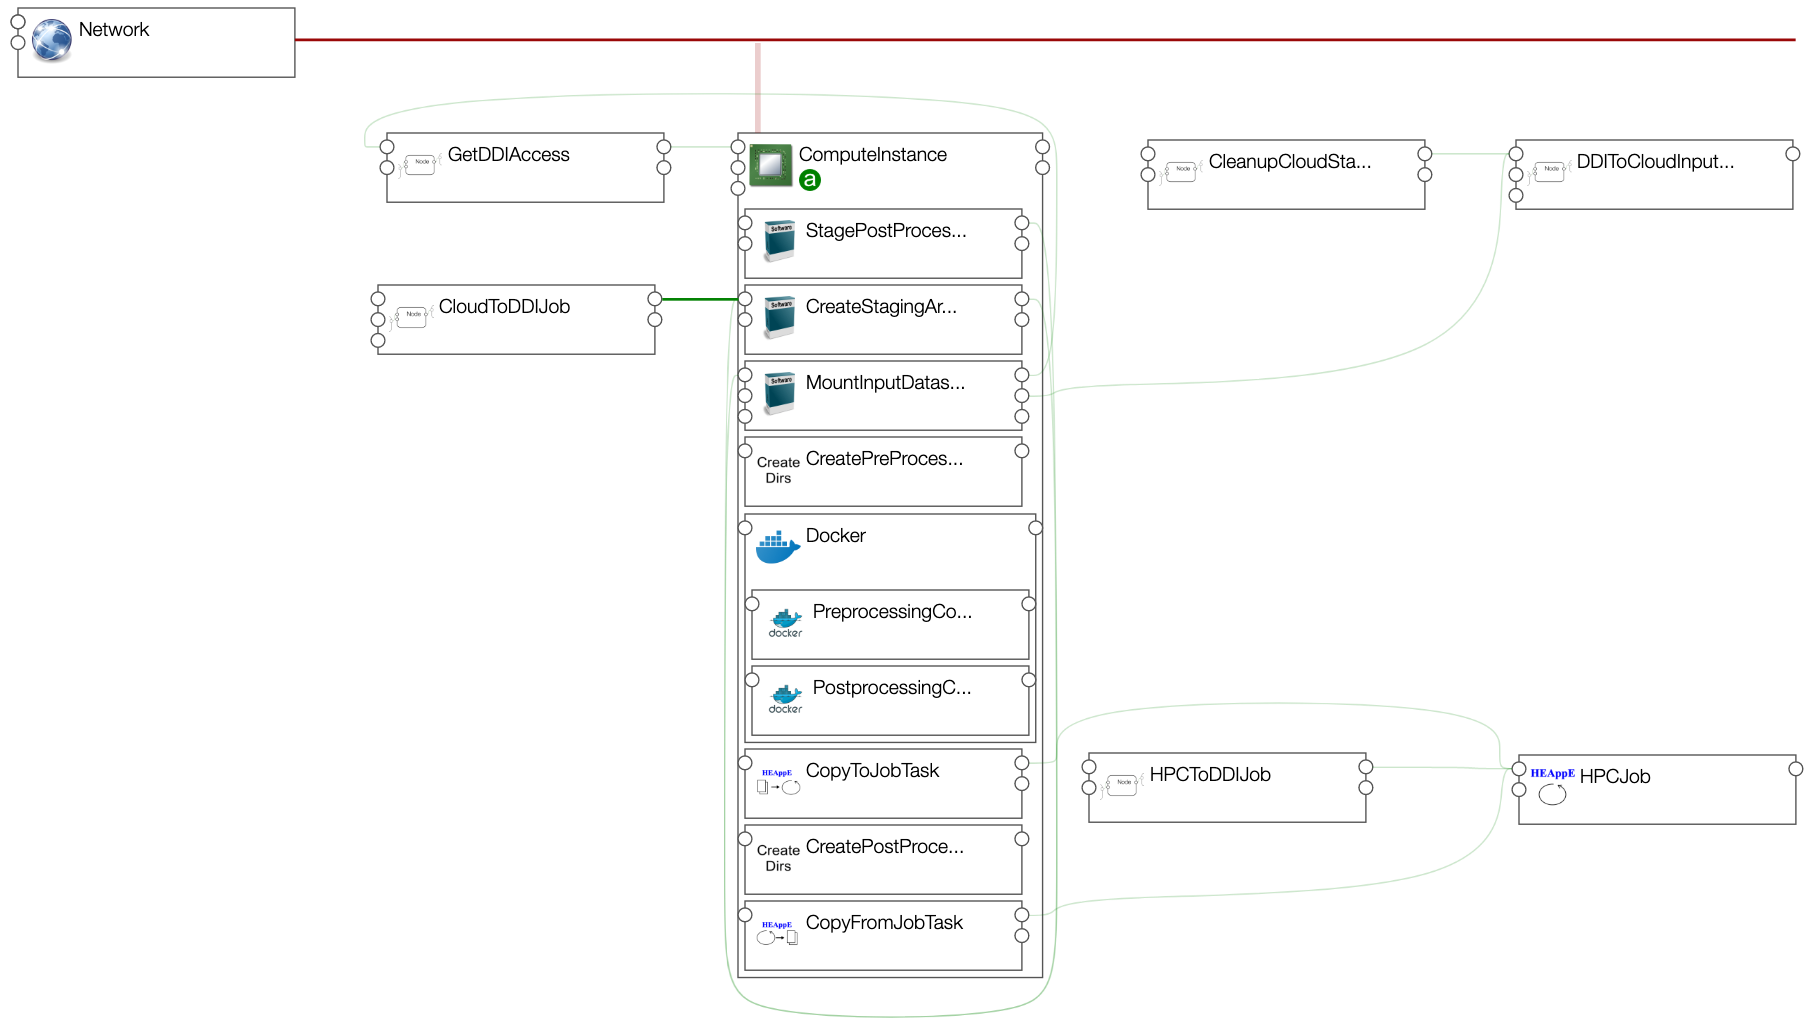
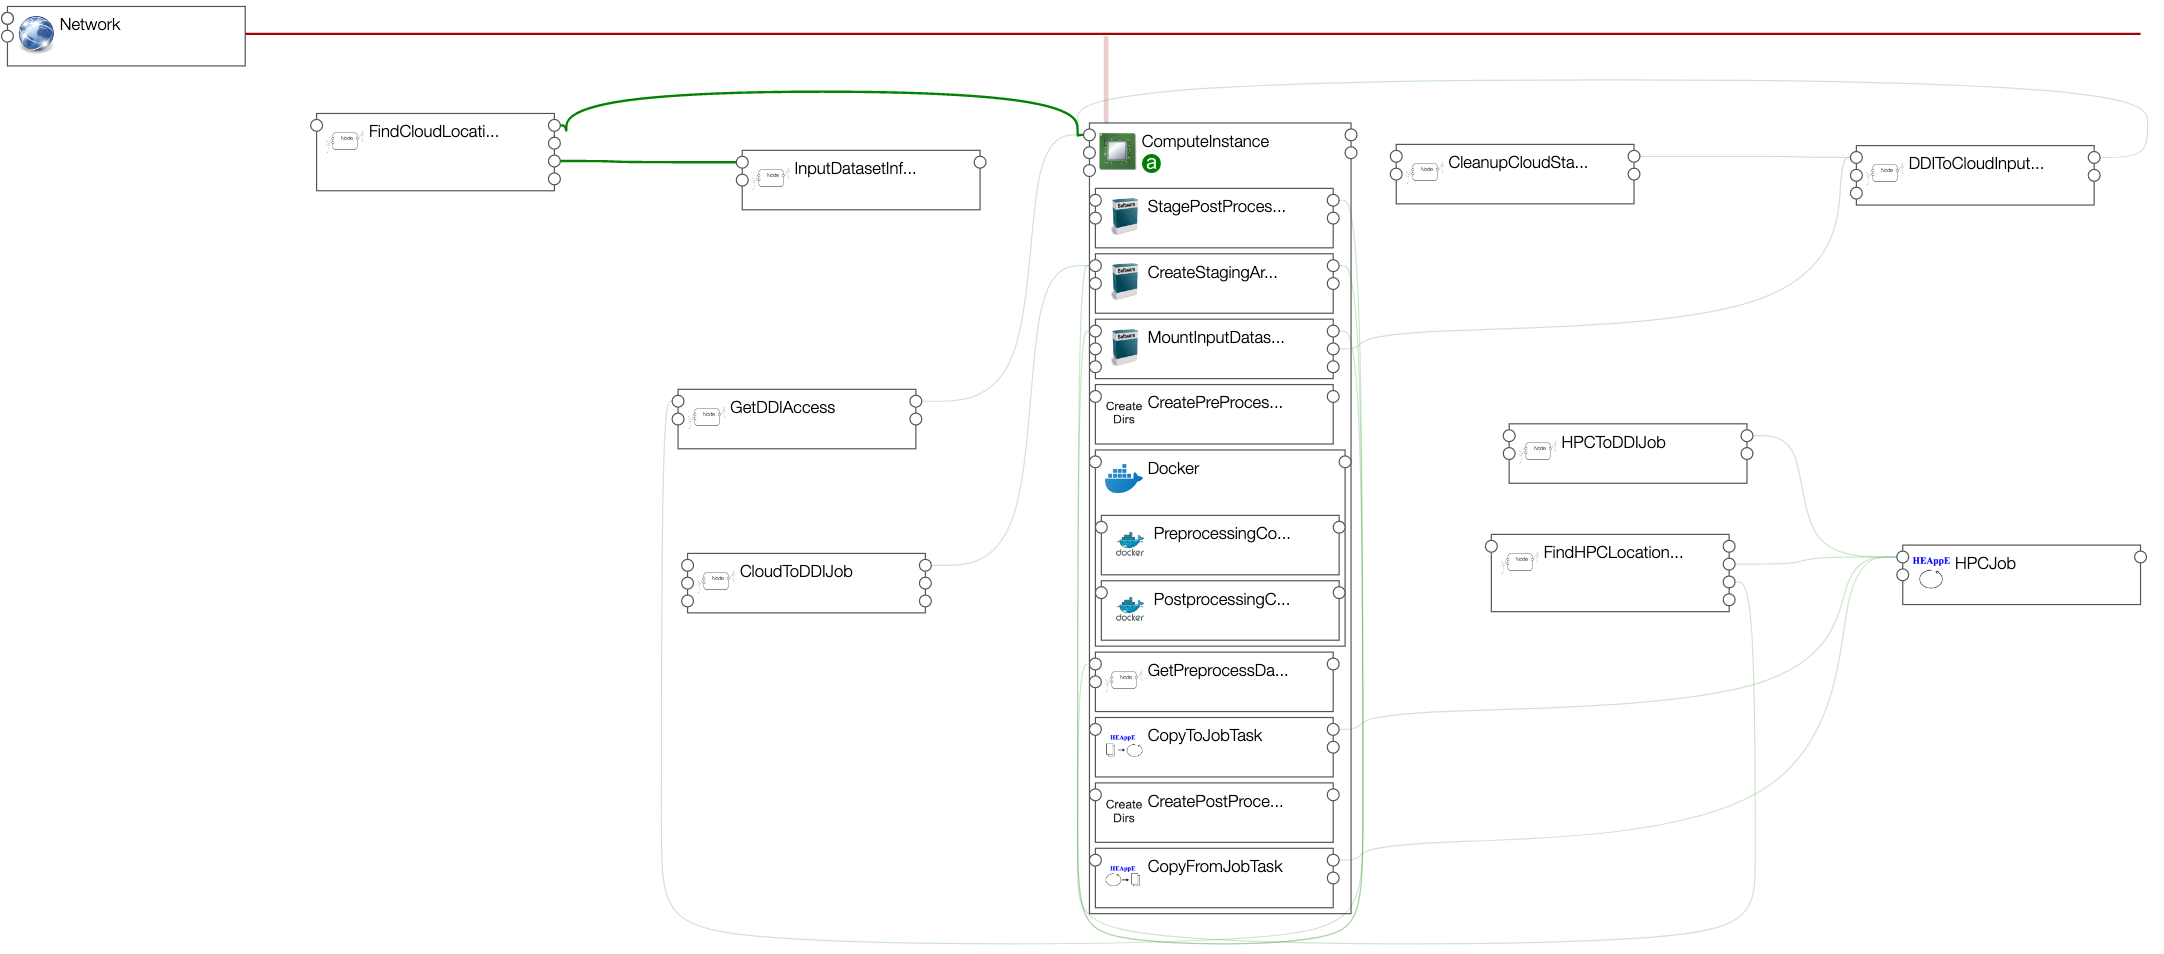
Updated LEXIS template description

diff --git a/sample/README.md b/sample/README.md
@@ -15,8 +15,9 @@ See TOSCA code in [lexis_template.yaml](lexis_template.yaml).
 A graphical view of the template topology shows:
 * a Compute Instance hosting software that will perform the pre-processing and
   post-processing computation
-* a HPC Job that will perform the computation on the HPC infrastructure 
 * DDI jobs that will perform the necessary data transfers between the infrastructures
+* a HPC Job that will perform the computation on the HPC infrastructure 
+* Dynamic orchestration components computing the best infrastructure to use
 
 ![App template](images/apptemplate.png)
 
@@ -27,8 +28,20 @@ A graphical view of this workflow shows:
 
 ![Run workflow](images/runworkflow.png)
 
-Zooming on each sequence of this workflow, it first starts by creating a cloud
-compute instance, and transferring an input dataset from DDI to make it available to this cloud compute instance:
+Zooming on each sequence of this workflow, it first starts by gathering info on the
+input dataset available in DDI: its size, in which locations it is available (LRZ, IT4I, or both locations),
+needed to evaluate the cost of a data transfer.
+Then, submits the job `FindCloudLocationJob` seen above in the template topology,
+that will compute the best Cloud location taking into account:
+* info on this input dataset to transfer to a Cloud staging area
+* the requirements of the Cloud Compute instance associated to the component FindCloudLocationJob
+* the availability of Computing resources on the different LEXIS Cloud locations.
+
+![Run workflow](images/find_cloud_location.png)
+
+
+Then, the workflow creates a Cloud compute instance on the selected location, and transfers
+the input dataset from DDI to make it available to this cloud compute instance:
 
 ![Run workflow](images/workflow1_mount_input_dataset.png)
 
@@ -36,9 +49,18 @@ Then the docker service is installed and started, and the pre-processing contain
 
 ![Docker and container](images/workflow2_preprocessing.png)
 
-Once the container has run and produced results, a HEAppE job is first created
-and File transfers are then enabled on it, so that the next step can copy
-pre-processing results to the HEAppE job task.
+Once the container has run and produced results, a component `GetPreprocessDatasetInfo` is
+started to provide details on these pre-processing results (size, number of files...),
+needed to evaluate the cost of a data transfer.
+And the job `FindHPCLocationJob` is submitted to find the best HPC location where to
+run next HPC computation job:
+
+![Find HPC location](images/find_hpc_location.png)
+
+
+Then, a HEAppE job is first created on the selected HPC location, and File transfers
+are then enabled on it, so that the next step can copy pre-processing results to
+the HEAppE job task.
 The orchestrator submits then the HEAppE job and waits for its end.
 
 ![HEAppE job](images/workflow3_computation.png)
